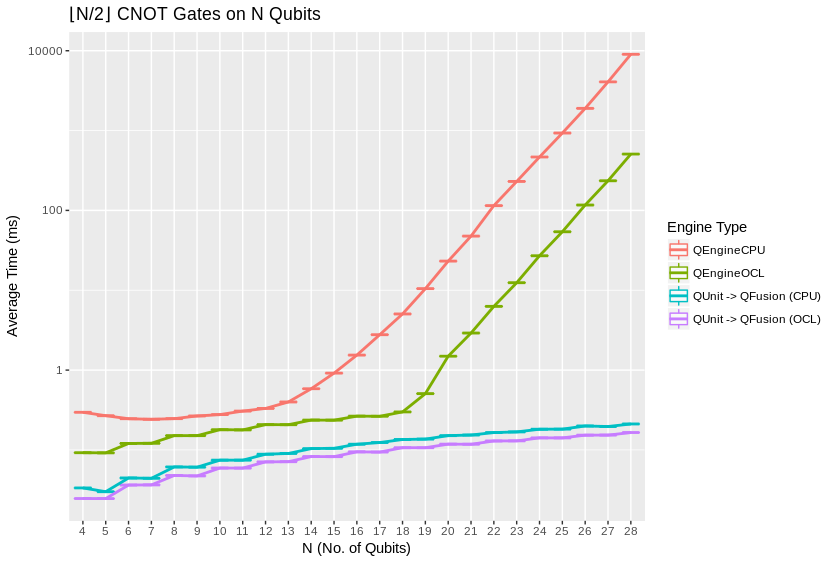
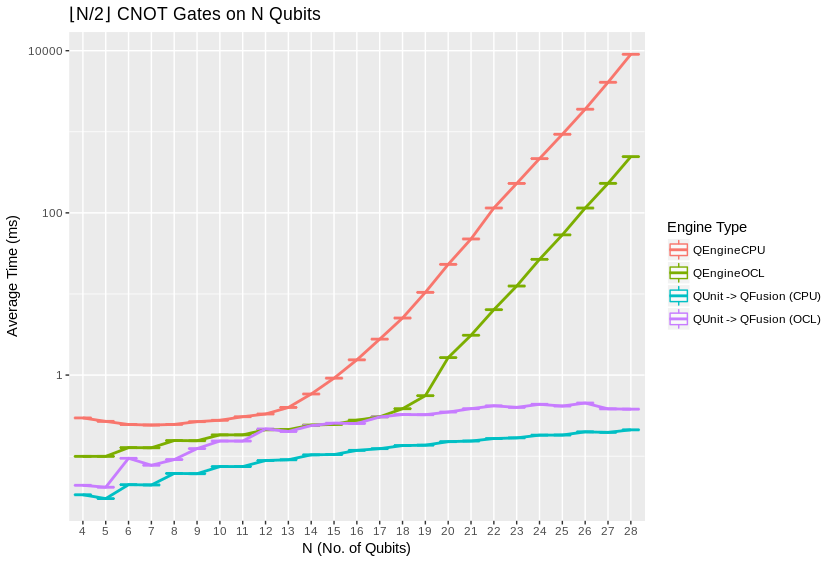
2019-05-19 benchmarks

diff --git a/docs/performance.rst b/docs/performance.rst
@@ -75,7 +75,11 @@ Disclaimers
 Method
 ******
 
-100 timed trials of single and parallel gates were run for each qubit count between 4 and 28 qubits. The benchmarking code is available at `https://github.com/vm6502q/qrack/blob/master/test/benchmarks.cpp <https://github.com/vm6502q/qrack/blob/master/test/benchmarks.cpp>`_, in which qubit count can be set and tests can be commented out to reduce to the relevant subset. CPU and GPU benchmarks were run on two respective systems that could represent realistic use cases for each engine type. An AWS p3.2xlarge running Ubuntu Server 18.04LTS was used for GPU benchmarks. An Alienware 17 R5 with an Intel(R) Core(TM) i7-8750H running Ubuntu 18.04LTS was used for Qrack CPU benchmarks. These test results were collected starting on the night of December 19th, 2018 into the morning of December 20th. Additional quantum Fourier transform ("QFT") benchmarks were collected on the night of January 5th, 2019 into the morning of January 6th. The average and quartile boundary values of each set of 100 were recorded and graphed. Grover's search to invert a black box subroutine, or "oracle," was similarly implemented for trials between 4 and 20 qubits, for QEngineOCL with and without QUnit and QFusion layers. Grover's algorithm was iterated an optimal number of times, vs. qubit count, to maximize probability on a half cycle of the algorithm's period, being :math:`floor\left[\frac{\pi}{4asin\left(1/\sqrt{2^N}\right)}\right]` iterations for :math:`N` qubits.
+100 timed trials of single and parallel gates were run for each qubit count between 4 and 28 qubits. The benchmarking code is available at `https://github.com/vm6502q/qrack/blob/master/test/benchmarks.cpp <https://github.com/vm6502q/qrack/blob/master/test/benchmarks.cpp>`_, in which qubit count can be set and tests can be commented out to reduce to the relevant subset.
+
+CPU and GPU benchmarks were run on two respective systems that could represent realistic use cases for each engine type. An AWS p3.2xlarge running Ubuntu Server 18.04LTS was used for GPU benchmarks. An Alienware 17 R5 with an Intel(R) Core(TM) i7-8750H running Ubuntu 18.04LTS was used for Qrack CPU benchmarks. Updated Qrack GPU benchmarks were collected May 19th, 2019. These results were combined with an earlier set of test results collected starting on the night of December 19th, 2018 into the morning of December 20th, and additional quantum Fourier transform ("QFT") benchmarks were collected on the night of January 5th, 2019 into the morning of January 6th. To reduce cost, code revisions on Github were compared between December 19th, 2018 and May 19th 2019, for QCGPU and ProjectQ, and lower qubit counts were run to determine that there is no significant change in the set of benchmarks from December and January. (If this is in error, we took care to try to report fair tests, within cost limitations, but please let us know.)
+
+The average and quartile boundary values of each set of 100 were recorded and graphed. Grover's search to invert a black box subroutine, or "oracle," was similarly implemented for trials between 4 and 20 qubits, for QEngineOCL with and without QUnit and QFusion layers. Grover's algorithm was iterated an optimal number of times, vs. qubit count, to maximize probability on a half cycle of the algorithm's period, being :math:`floor\left[\frac{\pi}{4asin^2\left(1/\sqrt{2^N}\right)}\right]` iterations for :math:`N` qubits.
 
 A quantum Fourier transform was run for 100 trials between 4 and 28 qubits on the GPU engine types. ProjectQ and QCGPU were also benchmarked for this test, on an AWS p3.2xlarge running Ubuntu Server 18.04LTS, with the benchmarking code provided by QCGPU, accessed from its Github repository on 12/1/18, in Python 3. The benchmarking script available from QCGPU iterates at random between the engine options, but it was slightly modified to alternate between trials of ProjectQ and QCGPU, to get exactly 100 samples apiece per qubit count.
 
@@ -118,7 +122,7 @@ QEngineCPU took approximately 100 seconds per 1 trial (of 100) for 22 qubits and
 
 QEngineOCL generally outperforms the default simulator "backend" for ProjectQ. However, Qrack has also been wrapped as an optional backend for ProjectQ, and benchmarks for this layering of both projects will follow.
 
-For lower numbers of qubits, QEngineOCL outperforms QCGPU. Both simulators follow a trend that appears to reach a knee of faster exponential growth. The "knee" comes at a lower number of qubits for QEngineOCL than for QCGPU, at about 18 qubits, versus 25 or 24 qubits for QCGPU.
+For lower numbers of qubits, QEngineOCL outperforms QCGPU. Both simulators follow a trend that appears to reach a knee of faster exponential growth. The "knee" comes at a lower number of qubits for QEngineOCL than for QCGPU, at about 19 or 18 qubits, versus 25 or 24 qubits for QCGPU.
 
 QUnit was analyzed based on half its round trip time, for the application of the QFT followed by its inverse. The distribution of its times was log normal for the random input state distributions selected, so the times given are "exponent-mean-log," 2 raised to the mean of the log base 2 of the trial times, for which the mean closely matches the median and the standard deviations are consistently very small. QUnit represents its state vector in terms of decomposed subsystems, when possible and efficient. After an operation that should disentangle subsystems, QUnit can optionally try to separate the representations of independent subsystems, recovering a factor of 1/2, for each separated bit, of subsystem RAM and gate application time for further gates. QUnit outperforms all other simulators analyzed, when transforming a permutation basis eigenstate, without attempting to recover additional separability after the inverse transform. It fails to outperform QCGPU on half the round trip, if we attempt to separate QUnit's subsystems on the return trip, but further gate application will usually receive a large boost from this attempt at subsystem separation. A linear superposition of permutation states probably represents a realistic and fairly general set of inputs or outputs for the QFT; QUnit times are very close to QEngineOCL times for a random linear superposition of permutation basis input states.
 
@@ -132,13 +136,11 @@ In the comparative QFT benchmarks, the difference between QCGPU and Qrack in the
 Further Work
 ************
 
-Qrack contains an experimental multiprocessor type, previously "QEngineOCLMulti" based on the algorithms developed in Intel's [QHiPSTER]_, currently replaced in favor of the simpler QUnitMulti type, which dispatches different separable subsystems to different processors. Current and previous generation multiprocessor types fail to outperform the single processor QEngineOCL. We include it in the current release to help the open source community realize a practical multiprocessor implementation in the context of Qrack.
+Qrack previously contained two experimental multiprocessor types, "QEngineOCLMulti" based on the algorithms developed in Intel's [QHiPSTER]_, and the simpler QUnitMulti type, which dispatches different separable subsystems to different processors. These failed to outperform the single processor QEngineOCL. However, as Qrack has added optional support as a simulator for ProjectQ, we have effectively gained access to the quantum network simulator "SimulaQron" by SoftwareQuTech. At least one Qrack user is experimenting with scaling deployments of containers loaded with Qrack, ProjectQ, and SimulaQron as effective solution for multiprocessor and cluster operations, and the Qrack Team is looking at this and related approaches for this purpose. An asynchronous quantum P2P model, for effective multiprocessor support, should hopefully reduce inter-device communication overhead bottlenecks.
 
-Qrack has been successfully run on multiple processors at once, and even on clusters, but not with practical performance for real application; a good next step is to redesign the multiprocessor engine type(s) to actually outperform the single device engine. Also, CPU "software" implementation parallelism relies on certain potentially expensive standard library functionality, like lambda expressions and parallel "futures," and might still be optimized. Further, there is still opportunity for better explicit qubit subsystem separation in QUnit.
+With a new generation of "VPU" processors coming in 2019, (for visual inference,) it might be possible to co-opt VPU capabilities for inference of raw state vector features, such as Schmidt separability, to improve the performance of QUnit. The authors of Qrack have started looking at this hardware for this purpose.
 
-With a new generation of "VPU" processors coming in 2019, (for visual inference,) it might be possible to co-opt VPU capabilities for inference of raw state vector features, such as Schmidt separability, to improve the performance of QUnit. The authors of Qrack have just started looking at this hardware for this purpose.
-
-We will maintain systematic comparisons to published benchmarks of quantum computer simulation standard libraries, as they arise. Comparative benchmarks will be established for Grover's search, in early 2019.
+We will maintain systematic comparisons to published benchmarks of quantum computer simulation standard libraries, as they arise.
 
 Conclusion
 **********

diff --git a/docs/api/qinterface.rst b/docs/api/qinterface.rst
@@ -51,11 +51,11 @@ State Manipulation Methods
 
 .. doxygenfunction:: Qrack::QInterface::SetQuantumState
 
-.. doxygenfunction:: Qrack::QInterface::Cohere(QInterfacePtr)
-.. doxygenfunction:: Qrack::QInterface::Cohere(std::vector<QInterfacePtr>)
+.. doxygenfunction:: Qrack::QInterface::Compose(QInterfacePtr)
+.. doxygenfunction:: Qrack::QInterface::Compose(std::vector<QInterfacePtr>)
 
-.. doxygenfunction:: Qrack::QInterface::Decohere
-.. doxygenfunction:: Qrack::QInterface::TryDecohere
+.. doxygenfunction:: Qrack::QInterface::Decompose
+.. doxygenfunction:: Qrack::QInterface::TryDecompose
 
 .. doxygenfunction:: Qrack::QInterface::Dispose
 
@@ -66,6 +66,8 @@ State Manipulation Methods
 .. doxygenfunction:: Qrack::QInterface::ProbReg
 
 .. doxygenfunction:: Qrack::QInterface::ProbMask
+
+.. doxygenfunction:: Qrack::QInterface::GetProbs
 
 .. doxygenfunction:: Qrack::QInterface::Swap(bitLenInt, bitLenInt)
 

diff --git a/docs/index.rst b/docs/index.rst
@@ -61,7 +61,6 @@ Daniel Strano would like to specifically note that Benn Bollay is almost entirel
     api/qenginecpu
     api/qengineocl
     api/qunit
-    api/qunitmulti
     api/6502
 
 .. The #http:// is a hack to get around Sphinx's re parser for links,
@@ -82,6 +81,5 @@ Daniel Strano would like to specifically note that Benn Bollay is almost entirel
     QEngineCPU </en/latest/_static/doxygen/classQrack_1_1QEngineCPU.html#http://>
     QEngineOCL </en/latest/_static/doxygen/classQrack_1_1QEngineOCL.html#http://>
     QUnit </en/latest/_static/doxygen/classQrack_1_1QUnit.html#http://>
-    QUnitMulti </en/latest/_static/doxygen/classQrack_1_1QUnitMulti.html#http://>
     Complex16Simd </en/latest/_static/doxygen/structQrack_1_1Complex16Simd.html#http://>
 
